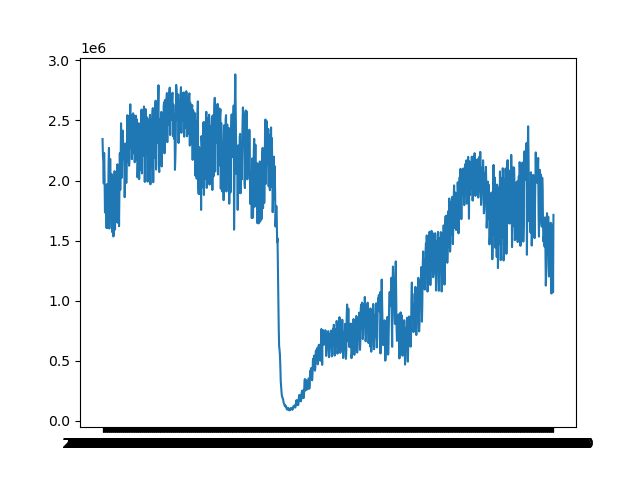
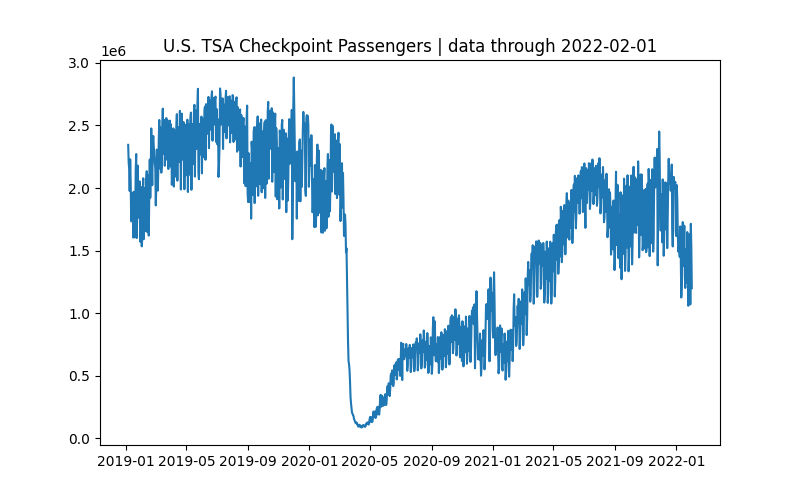
Updating TSA plot and site formatting.

diff --git a/projects/tsa/tsa.html b/projects/tsa/tsa.html
@@ -6,6 +6,13 @@
     <meta name="viewport" content="width=device-width, initial-scale=1">
     <meta name="description" content="TSA passenger number data.">
     <link href="../../main.css" rel="stylesheet">
+
+    <!-- Import font from Google Fonts -->
+    <!-- <link rel="stylesheet" href="https://fonts.googleapis.com/css2?family=JetBrains+Mono"> -->
+    <link rel="preconnect" href="https://fonts.googleapis.com">
+    <link rel="preconnect" href="https://fonts.gstatic.com" crossorigin>
+    <link href="https://fonts.googleapis.com/css2?family=JetBrains+Mono:wght@700&display=swap" rel="stylesheet">
+
     <title>bbgatch | TSA Checkpoint Data</title>
   </head>
 
@@ -21,6 +28,9 @@
     <h1>TSA Checkpoint Passenger Numbers</h1>
     <p>During the start of the Covid-19 outbreak, the U.S. Transportation Security
        Administration began sharing TSA security checkpoint passenger throughput numbers.</p>
+    
+    <img src="tsa.png" alt="Plot of TSA checkpoint passengers.">
+
   </body>
 
 

diff --git a/index.html b/index.html
@@ -11,7 +11,6 @@
     <!-- Import font from Google Fonts -->
     <link rel="stylesheet" href="https://fonts.googleapis.com/css2?family=JetBrains+Mono">
     
-
     <!-- Website title. Shows on browser tab. -->
     <title>bbgatch</title>
   </head>
@@ -27,14 +26,18 @@
     </nav>
     
 
-    <h1>bbgatch analytics portfolio</h1>
+    <h1>bbgatch analytics</h1>
     
-    <h2>intro</h2>
+    <h2>Intro</h2>
     <p>Welcome to my website! This is where I'll explore new analytics projects.</p>
     <p>I'm looking forward to learning more about web development through this project.</p>
     
-    <h2>projects</h2>
-    <h3><a href="projects/tsa/tsa.html">TSA Checkpoint Data</a></h3>
+    <h2>Projects</h2>
+    <ul>
+      <li>
+        <h3><a href="projects/tsa/tsa.html">TSA Checkpoint Data</a></h3>
+      </li>
+    </ul>
   
   </body>
 

diff --git a/main.css b/main.css
@@ -1,5 +1,5 @@
 html {
-    font-family: 'JetBrains Mono', Arial, Helvetica, sans-serif;
+    font-family: 'JetBrains Mono', monospace, Arial, Helvetica, sans-serif;
 }
 
 body {
@@ -8,4 +8,9 @@ body {
 
 h1 {
     font-size: 3em;
+    font-weight: 800;
+}
+
+h2 {
+    font-size: 2.1em;
 }

diff --git a/projects/tsa/plot_data.py b/projects/tsa/plot_data.py
@@ -3,6 +3,14 @@ import matplotlib.pyplot as plt
 
 df = pd.read_csv('tsa.csv')
 
+df['Date'] = pd.to_datetime(df['Date'])
+
+
+# Plot data
+plt.figure(figsize=(8, 5))
 plt.plot(df['Date'], df['Passengers'])
+plt.title('U.S. TSA Checkpoint Passengers | data through ' + max(df['Date']).strftime('%Y-%m-%d'))
+
 plt.savefig('tsa.png')
 # plt.show()
+
